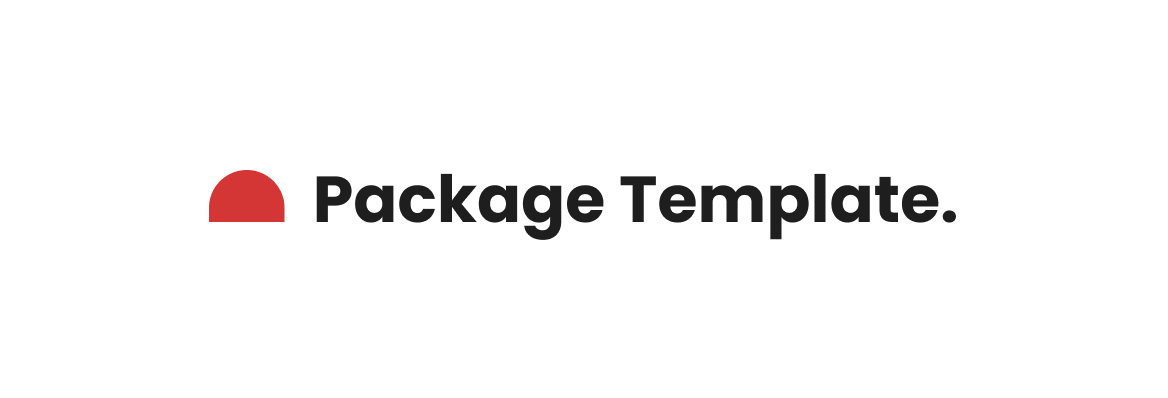
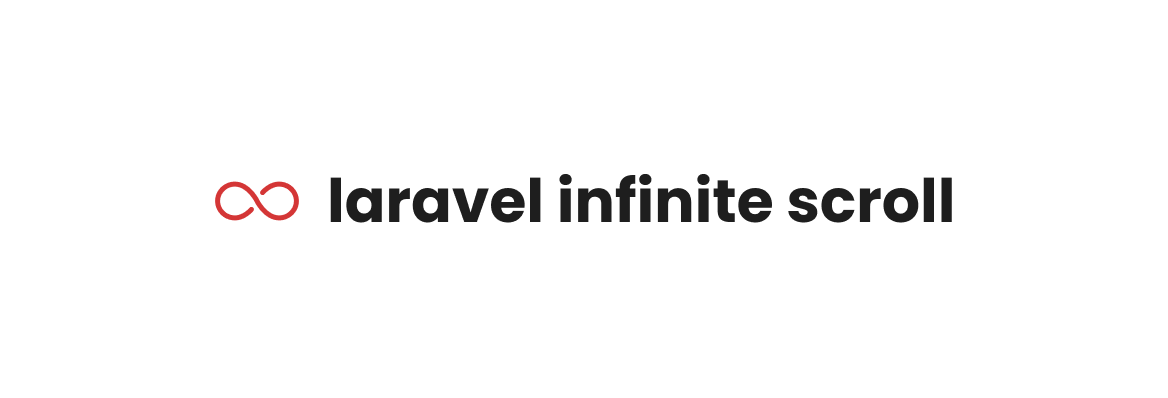
Docs: Added package docs.

Changed region(s): [[0.1541, 0.4221, 0.8322, 0.603]]

diff --git a/tests/Feature/Console/Commands/InstallCommandTest.php b/tests/Feature/Console/Commands/InstallCommandTest.php
@@ -44,6 +44,11 @@ beforeEach(function (): void {
 });
 
 it('requires input', function (): void {
+    // Arrange
+    $mock = Mockery::mock($this->reactStack);
+
+    $this->app->bind(React::class, fn () => $mock);
+
     // Act & Assert
     $this->artisan('install:infinite-scroll')
         ->expectsQuestion('Which stack are you using?', 'React')
@@ -77,6 +82,31 @@ it('aborts if stack has stub files that does not exists', function (): void {
         ->expectsQuestion('Which stack are you using?', 'React')
         ->expectsQuestion('Where do you want to install components?', 'resources/js/components')
         ->assertExitCode(1);
+});
+
+it('does not overwrite existing files', function (): void {
+    // Arrange
+    $mock = Mockery::mock($this->reactStack);
+    $stubFile = FileSystem::stubs('components/react/ts/infinite-scroll.tsx');
+    $destinationDir = FileSystem::tests('Fixtures/Storage');
+    $destinationFile = $destinationDir.'/infinite-scroll.tsx';
+
+    FileSystem::ensureDirectoryExists($destinationDir);
+    file_put_contents($destinationFile, 'original content');
+
+    $mock->shouldReceive('getStubs')->andReturn(collect([$stubFile]));
+    $this->app->bind(React::class, fn () => $mock);
+
+    // Act & Assert
+    $this->artisan('install:infinite-scroll')
+        ->expectsQuestion('Which stack are you using?', 'React')
+        ->expectsQuestion('Where do you want to install components?', $destinationDir)
+        ->assertExitCode(0);
+
+    expect(file_get_contents($destinationFile))->toBe('original content');
+
+    // Cleanup
+    FileSystem::delete($destinationFile);
 });
 
 it('installs proper files', function (): void {

diff --git a/tests/Unit/Stacks/ReactTest.php b/tests/Unit/Stacks/ReactTest.php
@@ -32,12 +32,12 @@ afterEach(function (): void {
     }
 });
 
-test('getLabel returns React', function (): void {
+test('getLabel returns React-TS', function (): void {
     // Act
     $label = $this->react->getLabel();
 
     // Assert
-    expect($label)->toBe('React');
+    expect($label)->toBe('React-TS');
 });
 
 test('getDefaultInstallationPath returns expected path', function (): void {

diff --git a/src/Stacks/React.php b/src/Stacks/React.php
@@ -15,7 +15,7 @@ final class React implements Stack
      */
     public function getLabel(): string
     {
-        return 'React';
+        return 'React-TS';
     }
 
     /**

diff --git a/README.md b/README.md
@@ -1,60 +1,286 @@
 <p align="center">
     <img src="art/package-art.png" alt="Art">
     <p align="center">
-        <a href="https://github.com/codelabmw/package-name/actions"><img alt="GitHub Workflow Status (master)" src="https://github.com/codelabmw/package-name/actions/workflows/run-tests.yml/badge.svg"></a>
-        <a href="https://packagist.org/packages/codelabmw/package-name"><img alt="Total Downloads" src="https://img.shields.io/packagist/dt/codelabmw/package-name"></a>
-        <a href="https://packagist.org/packages/codelabmw/package-name"><img alt="Latest Version" src="https://img.shields.io/packagist/v/codelabmw/package-name"></a>
-        <a href="https://packagist.org/packages/codelabmw/package-name"><img alt="License" src="https://img.shields.io/packagist/l/codelabmw/package-name"></a>
+        <a href="https://github.com/codelabmw/laravel-infinite-scroll/actions"><img alt="GitHub Workflow Status (master)" src="https://github.com/codelabmw/laravel-infinite-scroll/actions/workflows/run-tests.yml/badge.svg"></a>
+        <a href="https://packagist.org/packages/codelabmw/laravel-infinite-scroll"><img alt="Total Downloads" src="https://img.shields.io/packagist/dt/codelabmw/laravel-infinite-scroll"></a>
+        <a href="https://packagist.org/packages/codelabmw/laravel-infinite-scroll"><img alt="Latest Version" src="https://img.shields.io/packagist/v/codelabmw/laravel-infinite-scroll"></a>
+        <a href="https://packagist.org/packages/codelabmw/laravel-infinite-scroll"><img alt="License" src="https://img.shields.io/packagist/l/codelabmw/laravel-infinite-scroll"></a>
     </p>
 </p>
 
-A description of what the package is and what it does.
+# Laravel Infinite Scroll
+
+A Laravel package for easily implementing infinite scroll in your Inertia.js applications, regardless of frontend stack (React, Vue, Svelte, etc.).
+
+This package is designed to be stack-agnostic: each frontend stack (React, Vue, Svelte, etc.) can have its own Infinite Scroll component. The package provides a convenient mechanism to install and use the appropriate component for your stack.
+
+---
+
+## 📚 Table of Contents
+
+- [Overview](#overview)
+- [Features](#features)
+- [Requirements](#requirements)
+- [Installation](#installation)
+- [Quick Start](#quick-start)
+- [Usage](#usage)
+  - [Backend: InfiniteScroll Facade](#backend-infinitescroll-facade)
+  - [Frontend: React Component](#frontend-react-component)
+- [API Reference](#api-reference)
+  - [InfiniteScroll::make](#infinitescrollmake)
+  - [Console Commands](#console-commands)
+  - [Stacks & Extensibility](#stacks--extensibility)
+- [Troubleshooting & FAQ](#troubleshooting--faq)
+- [Contributing](#contributing)
+- [Changelog](#changelog)
+- [License](#license)
+
+---
+
+## Overview
+
+**Laravel Infinite Scroll** brings a plug-and-play infinite scrolling experience to your Inertia.js powered Laravel apps. It seamlessly integrates backend pagination and frontend rendering, making your lists and feeds truly dynamic.
+
+## Features
+
+- Effortless infinite scroll for Eloquent queries, Paginators, and CursorPaginators
+- Stack-agnostic: works with any Inertia frontend adapter (React, Vue, Svelte, etc.)
+- Comes with ready-to-use components for common stacks (currently React; others can be contributed)
+- Artisan command to install stack-specific components with stack detection and custom path support
+- Fully typed, tested, and extensible
+
+## Requirements
+
+- PHP ^8.3
+- Laravel 10+
+- Inertia.js (any frontend adapter: React, Vue, Svelte, etc.)
 
 ## Installation
 
-> Requires PHP ^8.3
-
-You can install the package via composer:
-
 ```bash
-composer require codelabmw/package-name
+composer require codelabmw/laravel-infinite-scroll
 ```
 
-## Usage
+Publish the frontend infinite scroll component for your stack:
 
-Instructions on how the package should and can be used including code examples.
+```bash
+php artisan install:infinite-scroll
+```
+
+The install command will list all supported stacks and prompt you to choose your stack and the path where to publish the component. It will also try to detect your current stack and set it as the default in the selection menu.
+
+> **Note:** Currently, only React stack components are included. Support for other stacks (Vue, Svelte, etc.) is planned for future versions and community contributions are welcome!
+
+## Quick Start
+
+### Backend: Add Infinite Scroll to Your Controller
 
 ```php
 <?php
 
 declare(strict_types=1);
 
-namespace Codelabmw\Package;
+namespace App\Http\Controllers;
 
-final class Example
+use App\Models\Article;
+use Codelabmw\InfiniteScroll\Facades\InfiniteScroll;
+use Inertia\Inertia;
+
+final class ArticleController extends Controller
 {
-    /**
-     * Creates Example instance.
-     */
-    public function __construct(private readonly Package $package)
+    public function index()
     {
-        $package->doSomething();
+        $articles = Article::query();
+        // You can use a Builder, CursorPaginator, or Paginator
+        return Inertia::render('articles/index', InfiniteScroll::make('articles', $articles));
     }
 }
 ```
+
+### Frontend: Use the Infinite Scroll Component
+
+Depending on your stack, the component will be installed in a different location. For React, it will be installed in `resources/js/components/infinite-scroll.tsx` unless specified otherwise.
+
+```tsx
+import InfiniteScroll from "@/components/infinite-scroll";
+
+interface Props {
+  articles: { data: Article[] };
+}
+
+export default function ArticlesIndex({ articles }: Props) {
+  return (
+    <div>
+      <InfiniteScroll data="articles">
+        {articles.data.map((article) => (
+          <div key={article.id}>{article.title}</div>
+        ))}
+      </InfiniteScroll>
+    </div>
+  );
+}
+```
+
+---
+
+## Usage
+
+### Backend: InfiniteScroll Facade
+
+The core backend API is the `InfiniteScroll` facade:
+
+#### `InfiniteScroll::make(string $key, Builder|CursorPaginator|Paginator $data, int $perPage = 15, array $columns = ['*']): array`
+
+- **$key**: The name of the prop (e.g. `'articles'`) as will be used in the frontend component.
+- **$data**: An Eloquent Builder, CursorPaginator, or Paginator (LengthAwarePaginator|SimplePaginator) instance.
+- **$perPage**: Items per page (default: 15). _Used if $data is a Builder_.
+- **$columns**: Columns to select (default: all). _Used if $data is a Builder_.
+
+**Returns:**
+An array of props for Inertia, including:
+
+- `$key` (deferred data) - The data that was passed to the facade.
+- `type` (pagination type) - Either `cursor` or `paged`
+- `cursor` or `page` (depending on paginator) - If cursor pagination is used, this will be the cursor to fetch the next page. If paged pagination is used, this will be the page number of the current page.
+- `has_more` (bool) - Whether there are more pages to fetch.
+- `per_page` (int) - The number of items per page.
+
+**Example:**
+
+```php
+InfiniteScroll::make('articles', Article::query());
+```
+
+### Frontend: Use the Infinite Scroll Component
+
+After publishing, import and use the `InfiniteScroll` component for your stack in your Inertia pages. The component will handle fetching more data as the user scrolls.
+
+---
+
+## API Reference
+
+### InfiniteScroll::make
+
+See [Backend Usage](#backend-infinitescroll-facade) for signature and example.
+
+### Console Commands
+
+#### `php artisan install:infinite-scroll`
+
+Publishes infinite scroll components of your chosen stack to your resources directory.
+
+### Stacks & Extensibility
+
+- **Stack detection:** The install command tries to auto-detect your current stack (e.g., React) and sets it as the default in the selection menu.
+- **Multiple stacks supported:** The package is designed to support any Inertia frontend stack. Each stack implementation is responsible for its own frontend component.
+- **Adding custom stacks:** You can extend the package by implementing the `Stack` contract and registering your stack and component. Community contributions for additional stacks (Vue, Svelte, etc.) are encouraged!
+
+---
+
+## Troubleshooting & FAQ
+
+- **Q: The infinite scroll component is not loading?**
+  - A: Make sure you have run the install command and imported the component correctly.
+  - A: Make sure you do not have a type error when specifying the data key.
+- **Q: How do I customize the frontend component?**
+  - A: Use component props (`whileLoading` | `whileNoMoreData`) to override default behavior.
+  - A: Edit the published component in your resources directory or where you published it.
+- **Q: Does this work with other stacks?**
+  - A: Currently, only React components are supported out of the box. You can add other stacks by contributing to the package.
+
+---
+
+## Contributing
+
+Contributions are welcome! Please see [CONTRIBUTING.md](CONTRIBUTING.md) for guidelines and run the test suite before submitting a PR.
+
+### Adding Support for a New Stack
+
+To add support for a new Inertia frontend stack (e.g., Vue, Svelte):
+1. **Implement the `Stack` contract** in `src/Contracts/Stack.php` for your stack.
+2. **Provide the frontend component** for your stack (e.g., Vue or Svelte InfiniteScroll component) in stubs directory.
+3. **Register your stack** in the package so it appears in the install command selection menu in `src/SupportedStacks.php`.
+4. **Test your integration** and update documentation/examples as needed.
+
+Community contributions for new stacks are highly encouraged!
+
+#### Example
+
+```php
+namespace Codelabmw\InfiniteScroll\Stacks;
+
+use Codelabmw\InfiniteScroll\Contracts\Stack;
+
+final class MyStack implements Stack
+{
+    /**
+     * The display name of the stack.
+     */
+    public function getLabel(): string
+    {
+        return 'MyStack';
+    }
+
+    /**
+     * The default installation path of components for this stack.
+     */
+    public function getDefaultInstallationPath(): string
+    {
+        return 'resources/js/components';
+    }
+
+    /**
+     * The paths of the stubs to copy.
+     *
+     * @return Collection<int, string>
+     */
+    public function getStubs(): Collection
+    {
+        return collect([
+            FileSystem::stubs('my-stack/infinite-scroll.ext'),
+        ]);
+    }
+
+    /**
+     * Whether this stack is the current one.
+     */
+    public function isCurrent(): bool
+    {
+        return $this->isTheCurrentStackInUseByApplication();
+    }
+}
+```
+
+Place your components in `stubs/stack/stub-name.ext`.
+
+Then, register your stack in `src/SupportedStacks.php`:
+
+```php
+//...
+
+class SupportedStacks
+{
+    /**
+     * @return array<int, class-string<Stack>>
+     */
+    public function get(): array
+    {
+        return [
+            //...
+            MyStack::class,
+        ];
+    }
+}
+```
+
+Now your stack will appear in the install command menu!
+---
 
 ## Changelog
 
 Please see [CHANGELOG](CHANGELOG.md) for more information on what has changed recently.
 
-## Contributing
-
-Please see [CONTRIBUTING](CONTRIBUTING.md) for details.
-
-## Credits
-
-- [Chikondi Kamwendo](https://github.com/kondi3)
-- [All Contributors](../../contributors)
+---
 
 ## License
 
